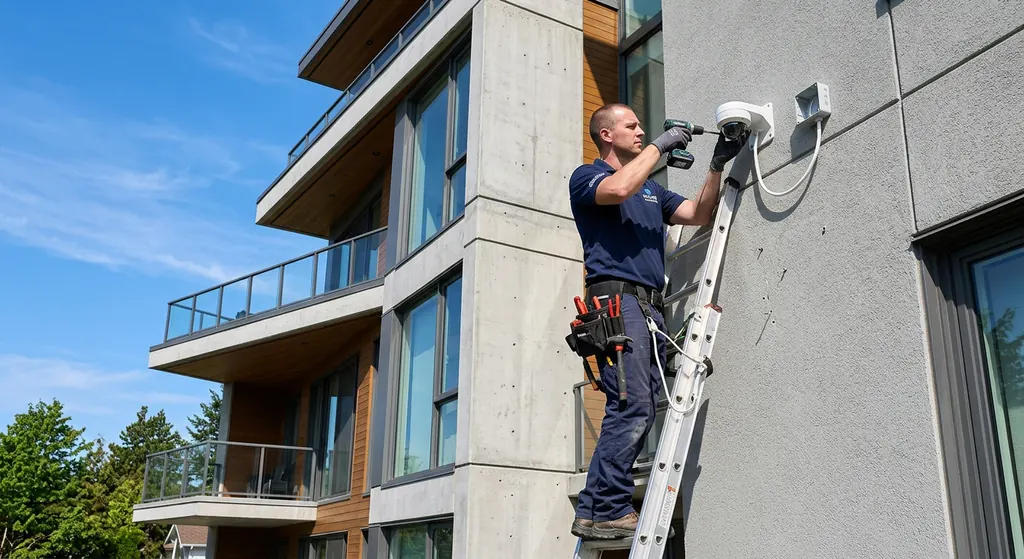
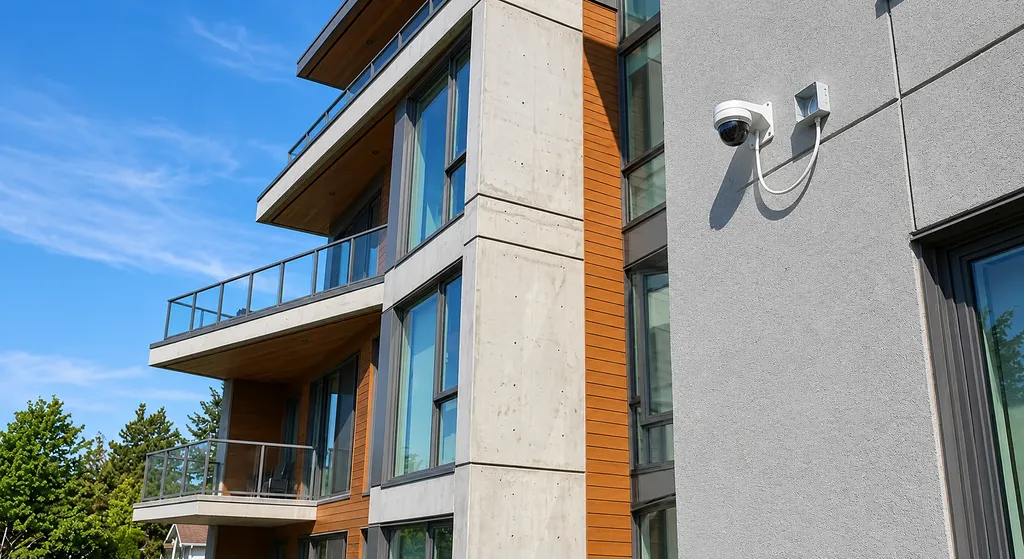
feat(ZV-45): fotos reais de serviços no portfólio (ar comprimido e painel) (#39)
Ar comprimido e painel com fotos reais de serviços da ZancaVolt, autorizadas pelos clientes e sem dados do cliente. O painel passa a se chamar "Painéis elétricos sob medida" (Máquinas, indústrias e veículos especiais). Eletrocalhas, CFTV e quadro de distribuição ficam com as mesmas imagens ilustrativas, agora sem pessoas. Imagens em WebP, todas abaixo de 300 KB. Referências da regressão visual da página inicial atualizadas e aprovadas pelo QA.

diff --git a/src/components/sections/portfolio.tsx b/src/components/sections/portfolio.tsx
@@ -17,9 +17,9 @@ const projects: { src: string; title: string; category: Exclude<Category, 'Todos
   },
   {
     src: '/images/projeto-painel.webp',
-    title: 'Painel de comando industrial',
+    title: 'Painéis elétricos sob medida',
     category: 'Painéis',
-    place: 'Indústria metalúrgica',
+    place: 'Máquinas, indústrias e veículos especiais',
   },
   {
     src: '/images/projeto-cftv.webp',
